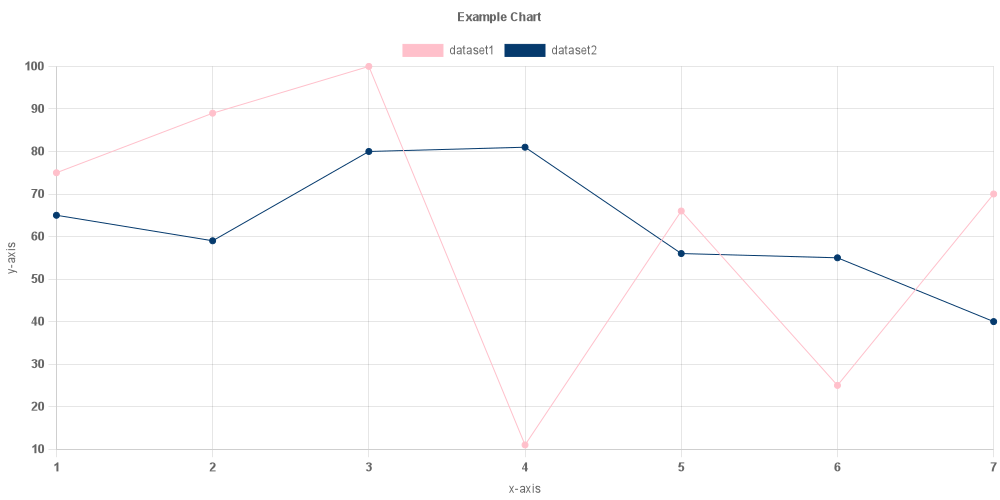
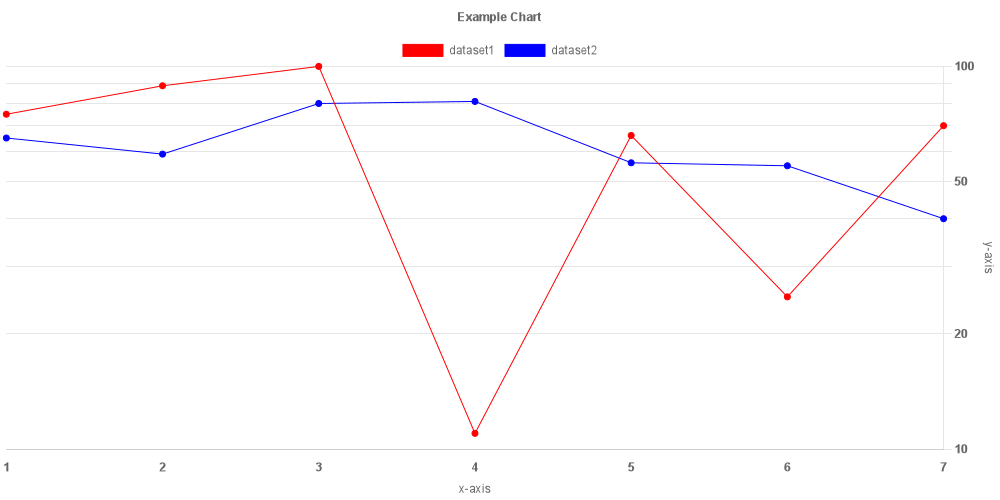
added multi axis line chart microservice

diff --git a/microservice04/controllers/diagramController.js b/microservice04/controllers/diagramController.js
@@ -25,9 +25,32 @@ exports.createDiagram = async (req, res, next) => {
     const width = req.body.width ? req.body.width : 1000;
     const height = req.body.height ? req.body.height : 500;
 
+    let scales = {
+      x: {
+        display: true, // Show x-axis
+        title: {
+          display: req.body.xaxis.title ? true : false,
+          text: req.body.xaxis.title,
+        },
+        ticks: {
+          font: {
+            size: 12,
+            weight: "bold",
+          },
+          maxRotation: 90, // Rotate x-axis labels by 90 degrees
+        },
+        grid: {
+          display: req.body.xaxis.grid ? true : false, // Show x-axis grid lines
+        },
+      },
+    };
+
     const datasets = [];
     for (i = 0; i < req.body.yaxis.datasets.length; i++) {
-      if (!req.body.yaxis.datasets[i].data) {
+      if (
+        !req.body.yaxis.datasets[i].data ||
+        !req.body.yaxis.datasets[i].yAxisID
+      ) {
         return res.status(400).json({
           status: "failed",
           message: "The file you uploaded contains errors!",
@@ -49,10 +72,38 @@ exports.createDiagram = async (req, res, next) => {
         backgroundColor: lineColor, // Background color
         pointBackgroundColor: lineColor, // Data point background color
         pointBorderColor: lineColor, // Data point border color
+        yAxisID: req.body.yaxis.datasets[i].yAxisID,
       });
     }
 
-    // Define the chart configuration
+    for (i = 0; i < req.body.yaxis.axis.length; i++) {
+      scales[i == 0 ? "y" : `y${i}`] = {
+        type: req.body.yaxis.axis[i].type
+          ? req.body.yaxis.axis[i].type
+          : "linear",
+        position: req.body.yaxis.axis[i].position
+          ? req.body.yaxis.axis[i].position
+          : "left",
+        beginAtZero: req.body.yaxis.axis[i].beginAtZero ? true : false, // Start y-axis at zero
+        display: true, // Show y-axis
+        title: {
+          display: req.body.yaxis.axis[i].title ? true : false,
+          text: req.body.yaxis.axis[i].title,
+        },
+        ticks: {
+          font: {
+            size: 12,
+            weight: "bold",
+          },
+        },
+        grid: {
+          display: req.body.yaxis.axis[i].grid ? true : false, // Show y-axis grid lines
+        },
+      };
+    }
+
+    console.log(scales);
+
     const configuration = {
       type: "line",
       data: {
@@ -60,6 +111,7 @@ exports.createDiagram = async (req, res, next) => {
         datasets: datasets,
       },
       options: {
+        stacked: req.body.stacked ? true : false,
         responsive: true,
         plugins: {
           legend: {
@@ -70,46 +122,7 @@ exports.createDiagram = async (req, res, next) => {
             text: req.body.title,
           },
         },
-        scales: {
-          x: {
-            display: true, // Show x-axis
-            title: {
-              display: req.body.xaxis.title ? true : false,
-              text: req.body.xaxis.title,
-            },
-            ticks: {
-              font: {
-                size: 12,
-                weight: "bold",
-              },
-              maxRotation: 90, // Rotate x-axis labels by 90 degrees
-            },
-            grid: {
-              display: req.body.xaxis.grid ? true : false, // Show x-axis grid lines
-            },
-          },
-          y: {
-            type: req.body.yaxis.type ? req.body.yaxis.type : "linear",
-            position: req.body.yaxis.position
-              ? req.body.yaxis.position
-              : "left",
-            beginAtZero: req.body.yaxis.beginAtZero ? true : false, // Start y-axis at zero
-            display: true, // Show y-axis
-            title: {
-              display: req.body.yaxis.title ? true : false,
-              text: req.body.yaxis.title,
-            },
-            ticks: {
-              font: {
-                size: 12,
-                weight: "bold",
-              },
-            },
-            grid: {
-              display: req.body.yaxis.grid ? true : false, // Show y-axis grid lines
-            },
-          },
-        },
+        scales: scales,
       },
     };
 
@@ -134,8 +147,9 @@ exports.createDiagram = async (req, res, next) => {
       res.end(image, "binary");
     });
   } catch (error) {
-    // Handle any errors that occur during chart creation
-    console.error("Error creating chart image:", error);
-    res.status(500).send("Internal Server Error");
+    return res.status(500).json({
+      status: "failed",
+      message: "Something went wrong!",
+    });
   }
 };

diff --git a/microservice03/controllers/diagramController.js b/microservice03/controllers/diagramController.js
@@ -134,8 +134,9 @@ exports.createDiagram = async (req, res, next) => {
       res.end(image, "binary");
     });
   } catch (error) {
-    // Handle any errors that occur during chart creation
-    console.error("Error creating chart image:", error);
-    res.status(500).send("Internal Server Error");
+    return res.status(500).json({
+      status: "failed",
+      message: "Something went wrong!",
+    });
   }
 };
